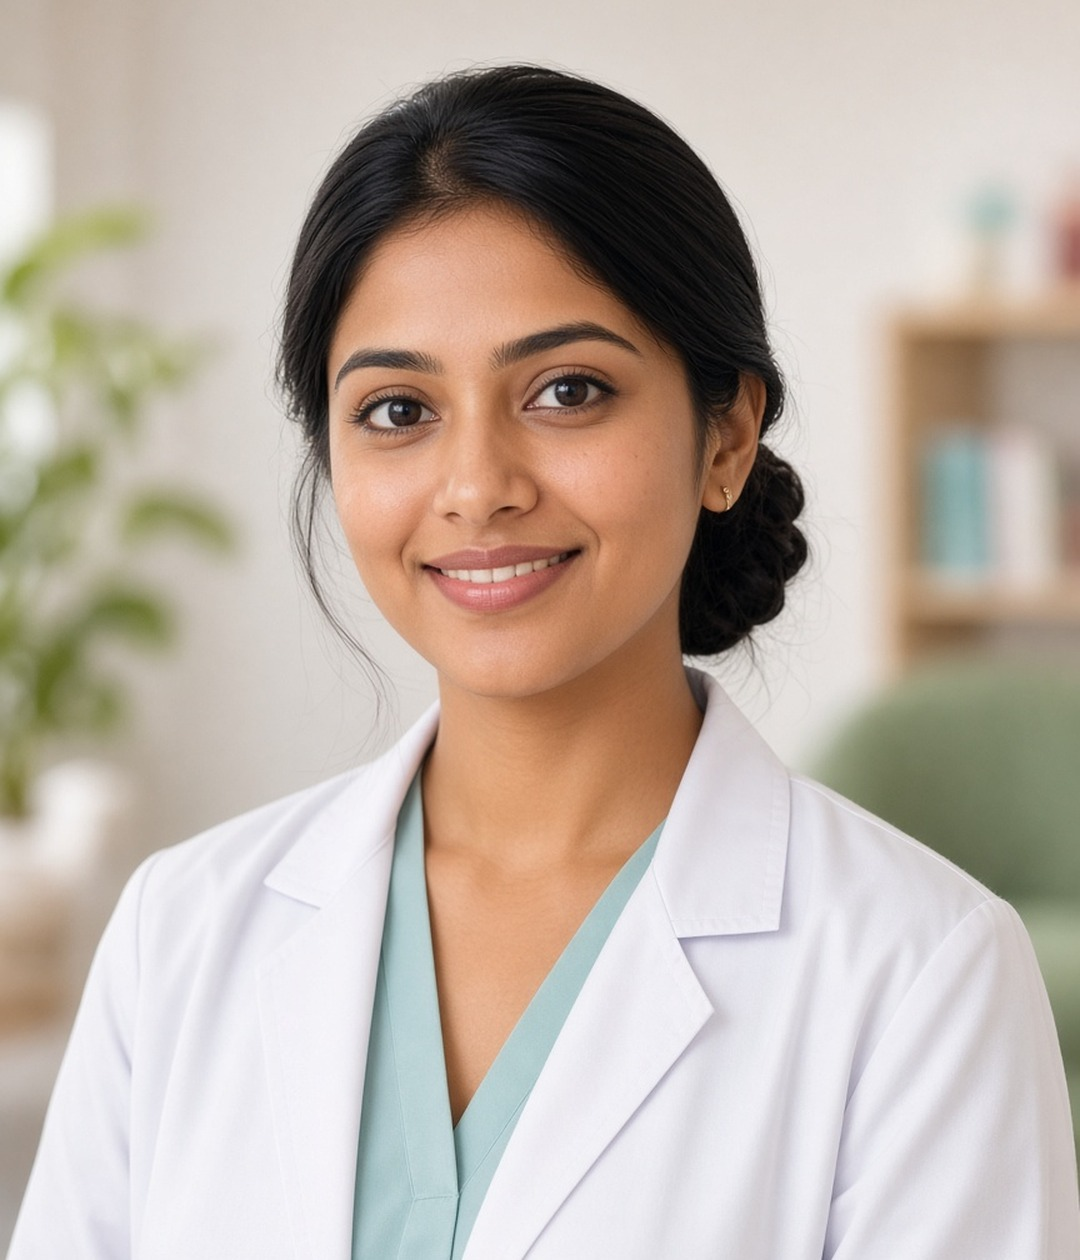
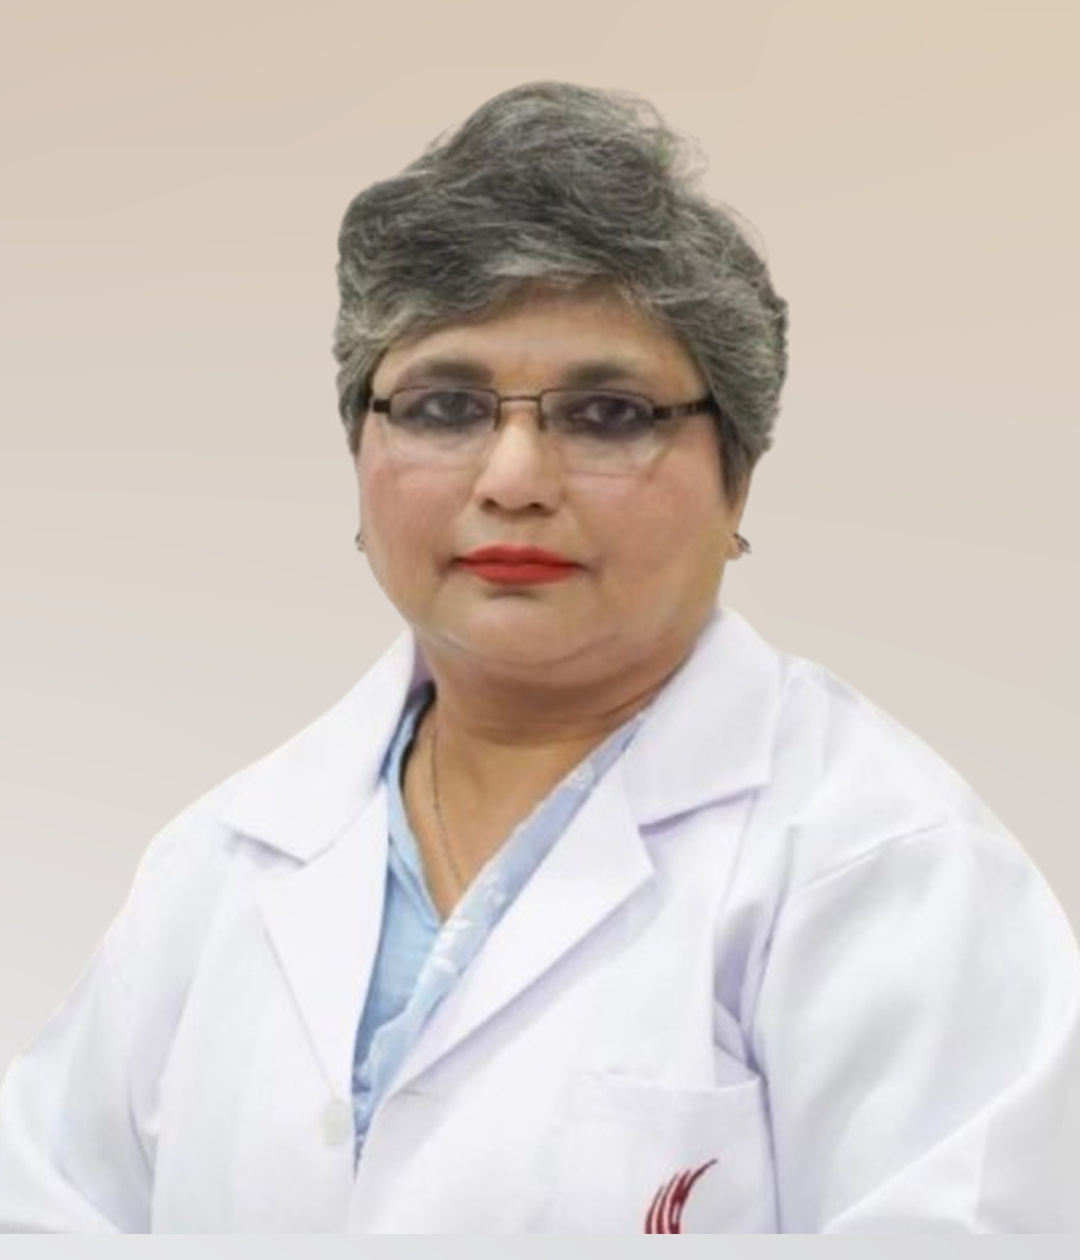
feat: restyle Faiza portrait to match Aroosha/Haroon card background

diff --git a/index.html b/index.html
@@ -436,7 +436,7 @@
               <div class="doctor-card__inner">
                 <div class="doctor-card__face doctor-card__face--front">
                   <div class="doctor-photo">
-                    <img src="images/doctor-faiza.jpg" alt="Dr. Faiza Khan, Paediatrician at TYROX Polyclinic LDA Avenue 1 Lahore" loading="lazy" itemprop="image" />
+                    <img src="images/Doctor/doctor-faiza.jpg" alt="Dr. Faiza Khan, Paediatrician at TYROX Polyclinic LDA Avenue 1 Lahore" loading="lazy" itemprop="image" />
                   </div>
                   <div class="doctor-meta">
                     <h3 itemprop="name">Dr. Faiza Khan</h3>
